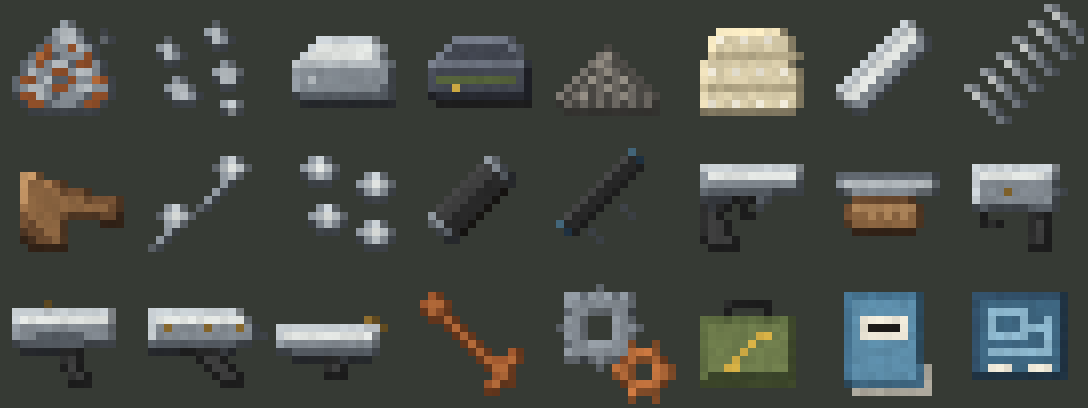
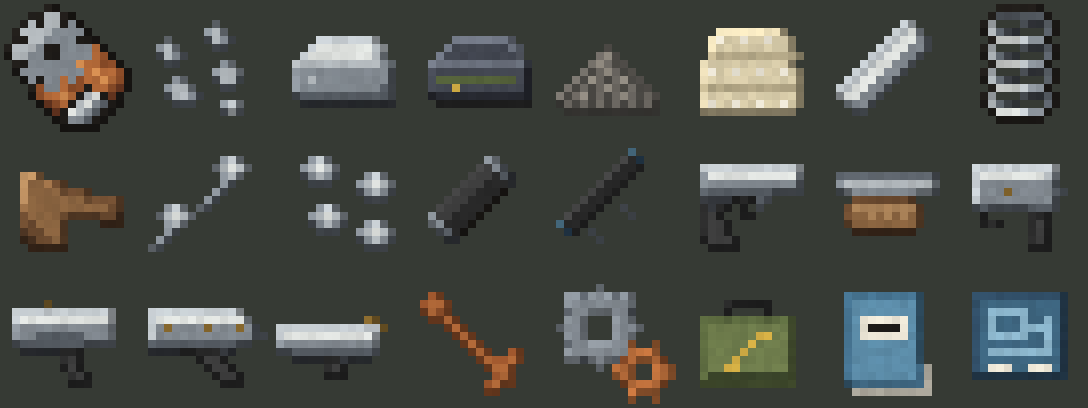
Nowe ikony sprężyny i złomu
Sprężyna: owalne zwoje z obrysem zamiast cienkich skośnych kresek, które w ręce
wyglądały jak szachownica. Złom: koło zębate, zardzewiała blacha i śruba zamiast
szarej kupki, która myliła się z prochem.

Claude-Session: https://claude.ai/code/session_01Ak4evXSHashhEGEGnwJYgr

Changed region(s): [[0.0, 0.0, 0.125, 0.3235], [0.875, 0.0, 1.0, 0.3235]]

diff --git a/zrodla/axoncore/items.py b/zrodla/axoncore/items.py
@@ -35,24 +35,66 @@ def gear(img, cx, cy, r, teeth, body='3', dark='2', hole=1.4):
 
 I = {}
 
-I['scrap'] = parse('''
+def outline(img, ch='k'):
+    """Ciemny obrys dookoła nieprzezroczystych pikseli, żeby ikona odcinała się od tła."""
+    out = img.copy()
+    for y in range(16):
+        for x in range(16):
+            if img.getpixel((x, y))[3]:
+                continue
+            if any(0 <= x + dx < 16 and 0 <= y + dy < 16 and img.getpixel((x + dx, y + dy))[3]
+                   for dx, dy in ((1, 0), (-1, 0), (0, 1), (0, -1))):
+                put(out, x, y, ch)
+    return out
+
+def scrap():
+    """Złom: zardzewiała blacha, koło zębate i śruba (wcześniej szara kupka myliła się z prochem)."""
+    img = parse('''
 ................
 ................
-.......33.......
-......3443..2...
-.....234432.32..
-....2R33R432....
-...2oR2333R2....
-..23R3442RR32...
-..2433RR34432...
-.2RR3422R33oR2..
-.23443RR344332..
-.2RR4323332RR2..
-..2RR23332RR2...
-...222222222....
 ................
+................
+................
+.........RRo....
+........RoOoR...
+.......RoOooRR..
+......RoORoOooR.
+.....RooRRooOoR.
+....RoOoRRoooRr.
+....RooOoRooRr..
+.....rRooRoRr...
+......rrRRRr....
+.......rrrr.....
 ................
 ''')
+    g = blank()
+    gear(g, 5.5, 5.5, 4.4, 8, body='3', dark='2', hole=1.3)
+    for y in range(16):          # światło z lewej góry
+        for x in range(16):
+            if x + y < 9 and g.getpixel((x, y))[:3] == PAL['3'] and g.getpixel((x, y))[3]:
+                put(g, x, y, '4')
+    img.alpha_composite(g)
+    img.alpha_composite(parse('''
+................
+................
+................
+................
+................
+................
+................
+................
+................
+................
+..........k.....
+.........k45k...
+........k4532k..
+.......k5432k...
+.......k332k....
+........kkk.....
+'''))
+    return outline(img)
+
+I['scrap'] = scrap()
 
 I['metal_fragments'] = parse('''
 ................
@@ -151,13 +193,37 @@ I['cloth'] = parse('''
 
 I['pipe'] = diag(blank(), 12, 9, '4455332', ends=('3443221', 1))
 
-sp = blank()
-for i in range(6):
-    ax, ay = 3 + 2 * i, 12 - 2 * i
-    for k, ch in zip(range(-2, 3), '45433'):
-        put(sp, ax + k, ay + k, ch)
-        put(sp, ax + k + 1, ay + k, '3' if k < 1 else '2')
-I['spring'] = sp
+def spring(coils=4, top=1, step=3, x0=3, w=10):
+    """Sprężyna stojąca: owalne zwoje, jasny przód, ciemne tylne zwoje widoczne w środku.
+    Wcześniej była cienkimi skośnymi kreskami, które w ręce wyglądały jak szachownica."""
+    img = {}
+    inner = w - 4
+    for i in range(coils):
+        y = top + i * step
+        if i == 0:
+            for x in range(x0 + 2, x0 + w - 2):
+                img[(x, y)] = '2'
+                img[(x, y - 1)] = 'k'
+        for dy in (1, 2):
+            img[(x0 + 1, y + dy)] = '4'
+            img[(x0 + w - 2, y + dy)] = '2'
+            img[(x0, y + dy)] = 'k'
+            img[(x0 + w - 1, y + dy)] = 'k'
+        img[(x0 + 1, y)] = img[(x0 + w - 2, y)] = 'k'
+        for k in range(inner):           # tylny zwój w prześwicie
+            img[(x0 + 2 + k, y + 2 if k < inner / 2 else y + 1)] = '1' if k % 3 else '2'
+        for x in range(x0 + 2, x0 + w - 2):   # przedni zwój
+            f = (x - x0 - 2) / (w - 5)
+            img[(x, y + 3)] = '5' if f < 0.45 else '4' if f < 0.8 else '3'
+            if i == coils - 1:
+                img[(x, y + 4)] = 'k'
+        img[(x0 + 1, y + 3)] = img[(x0 + w - 2, y + 3)] = 'k'
+    out = blank()
+    for (x, y), ch in img.items():
+        put(out, x, y, ch)
+    return out
+
+I['spring'] = spring()
 
 I['stock'] = parse('''
 ................
